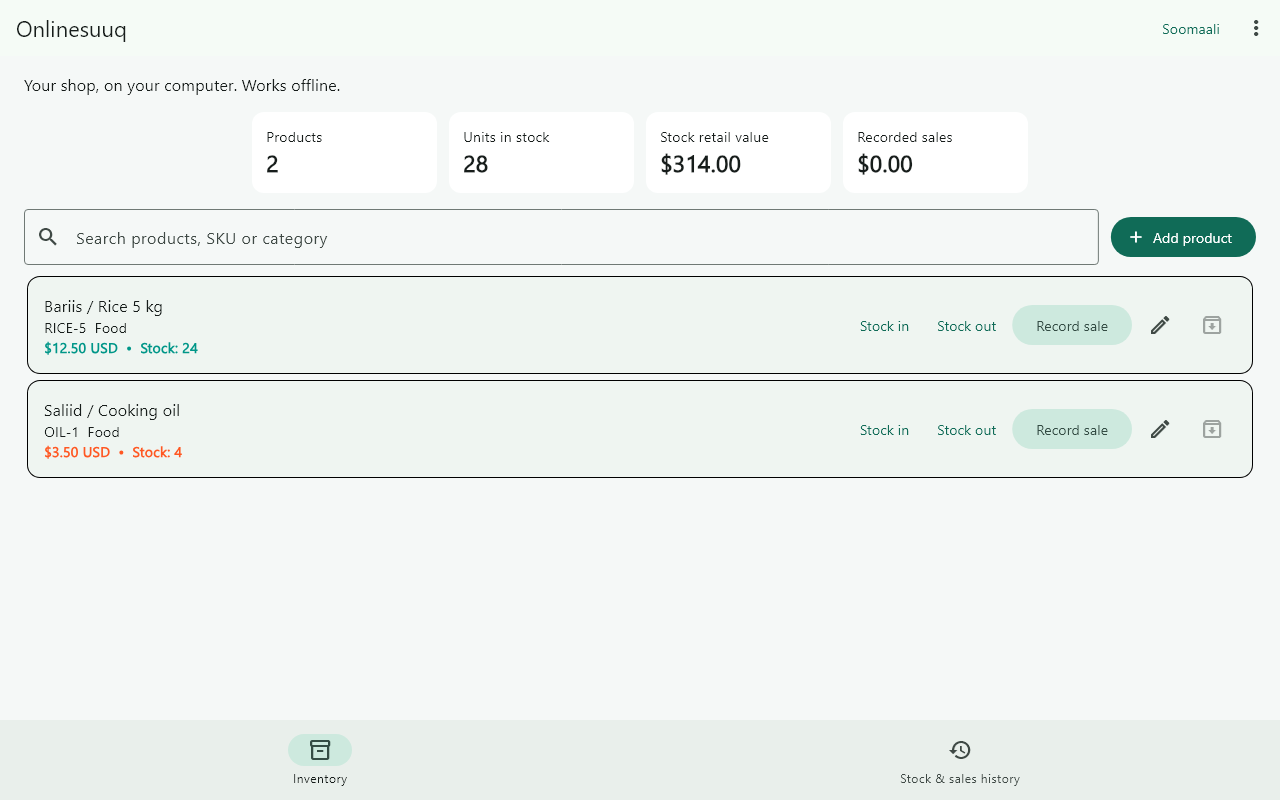
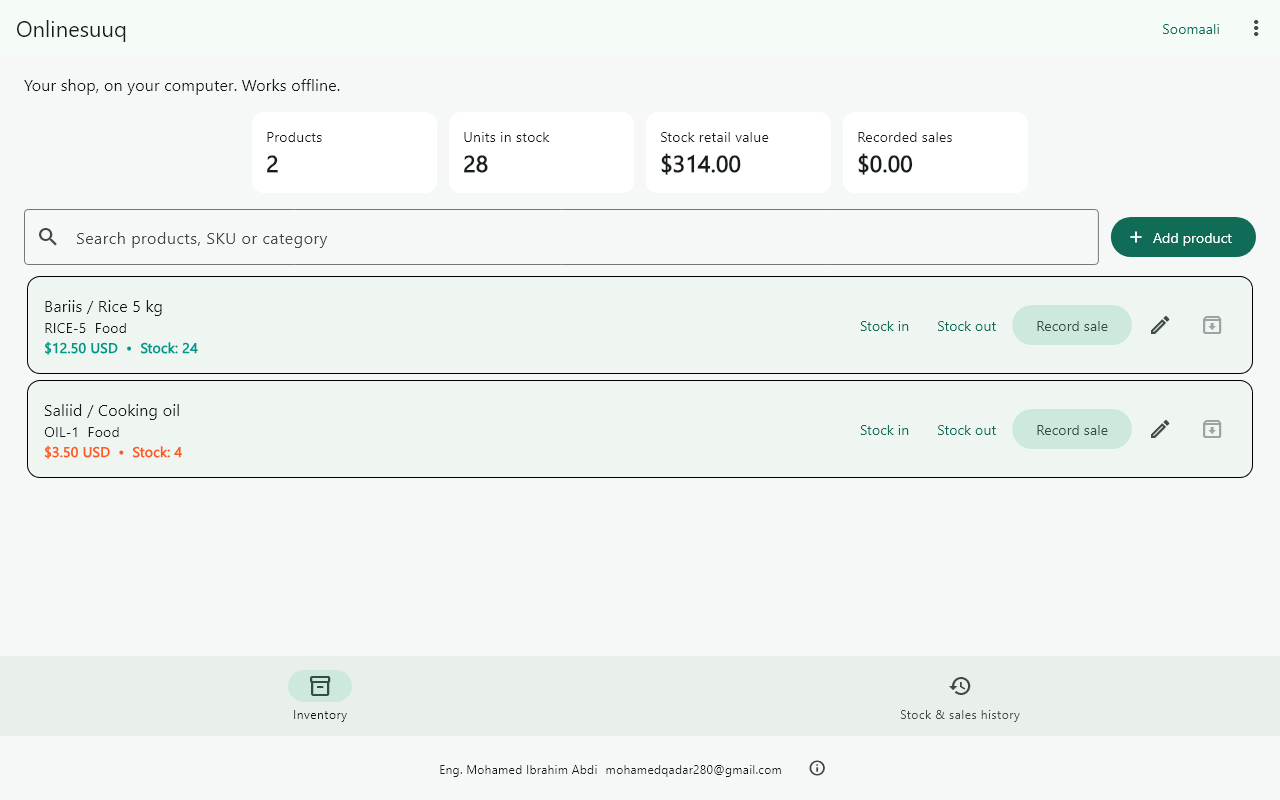
Document developer attribution and refresh desktop preview

diff --git a/README.md b/README.md
@@ -35,3 +35,11 @@ The original Flutter storefront entry point (`lib/main.dart`) and Django/Postgre
 [Windows instructions](docs/WINDOWS_RELEASE.md) · [Local development (Turkish)](docs/LOCAL_DEVELOPMENT_TR.md) · [API](docs/API.md) · [Offline release notes](docs/release-offline.md)
 
 Never commit `.env`, private keys, tokens, backups or customer data.
+
+## Developer
+
+**Eng. Mohamed Ibrahim Abdi**  
+Computer Engineer — Specialty: Natural Language Processing and Computer Vision  
+Contact: [mohamedqadar280@gmail.com](mailto:mohamedqadar280@gmail.com)
+
+Developer attribution is built into the app and cannot be edited through inventory settings or backups. This does not prevent someone from modifying the public source and compiling a different app.
